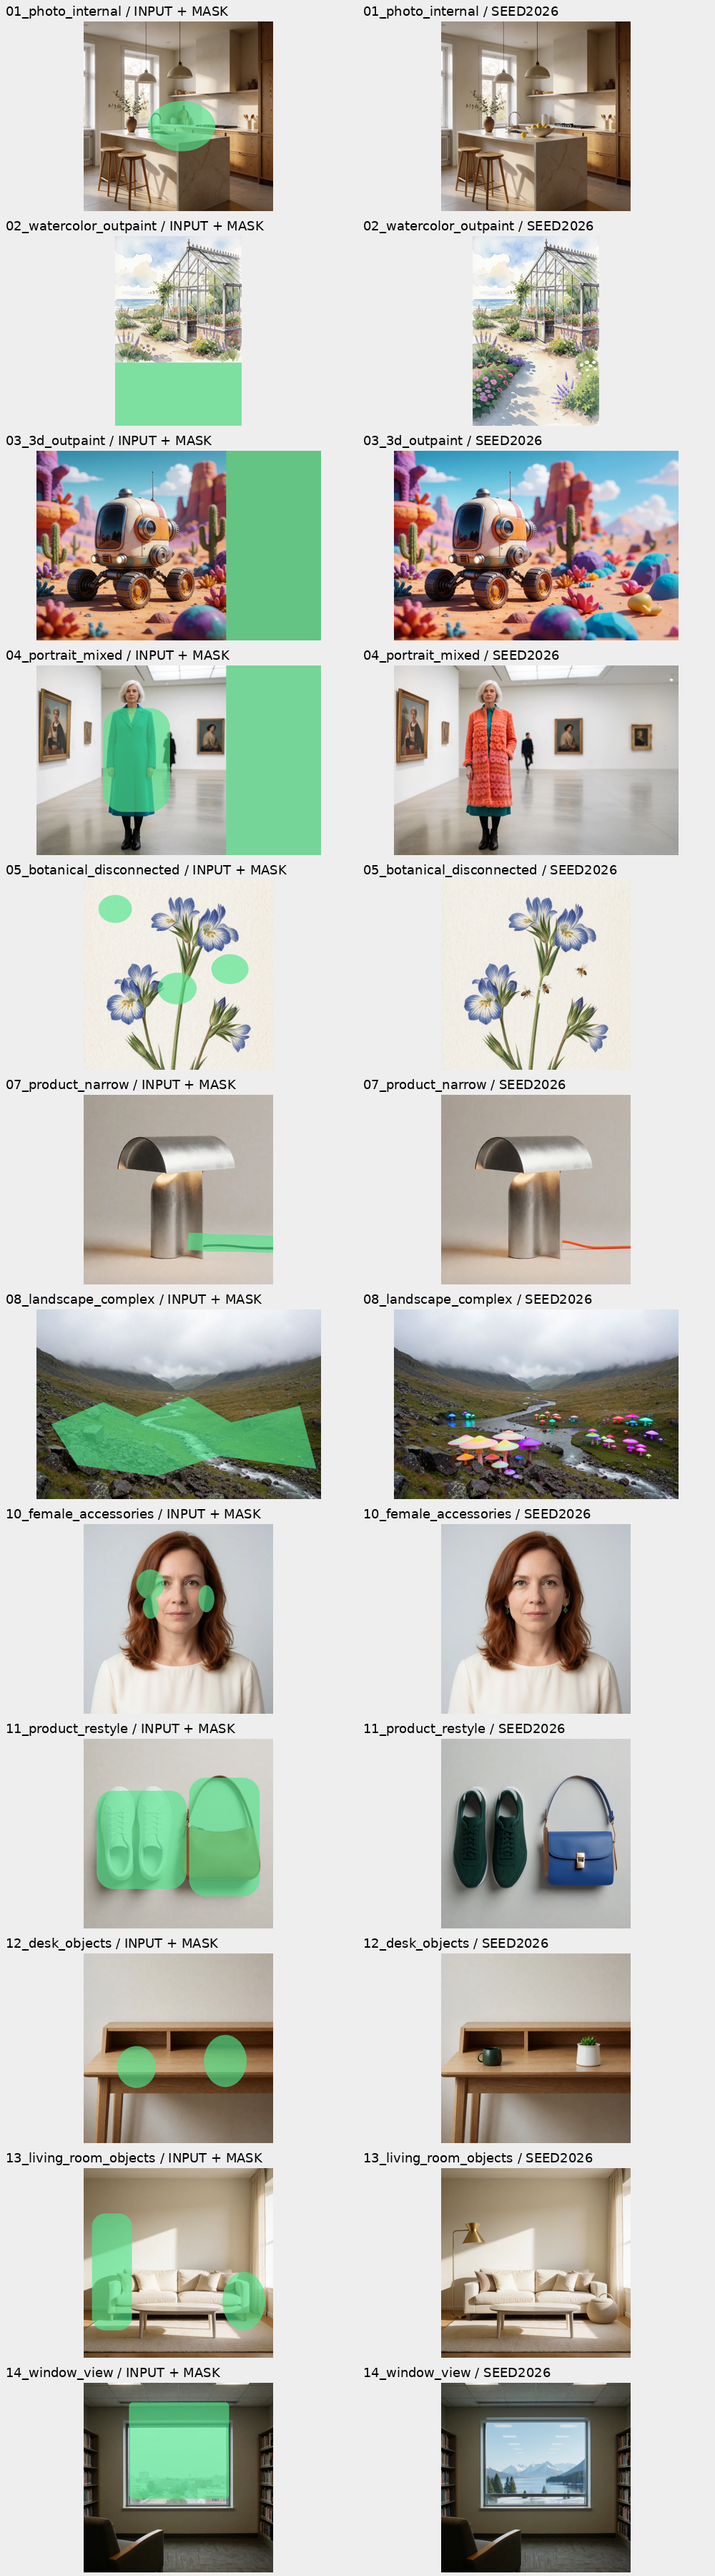
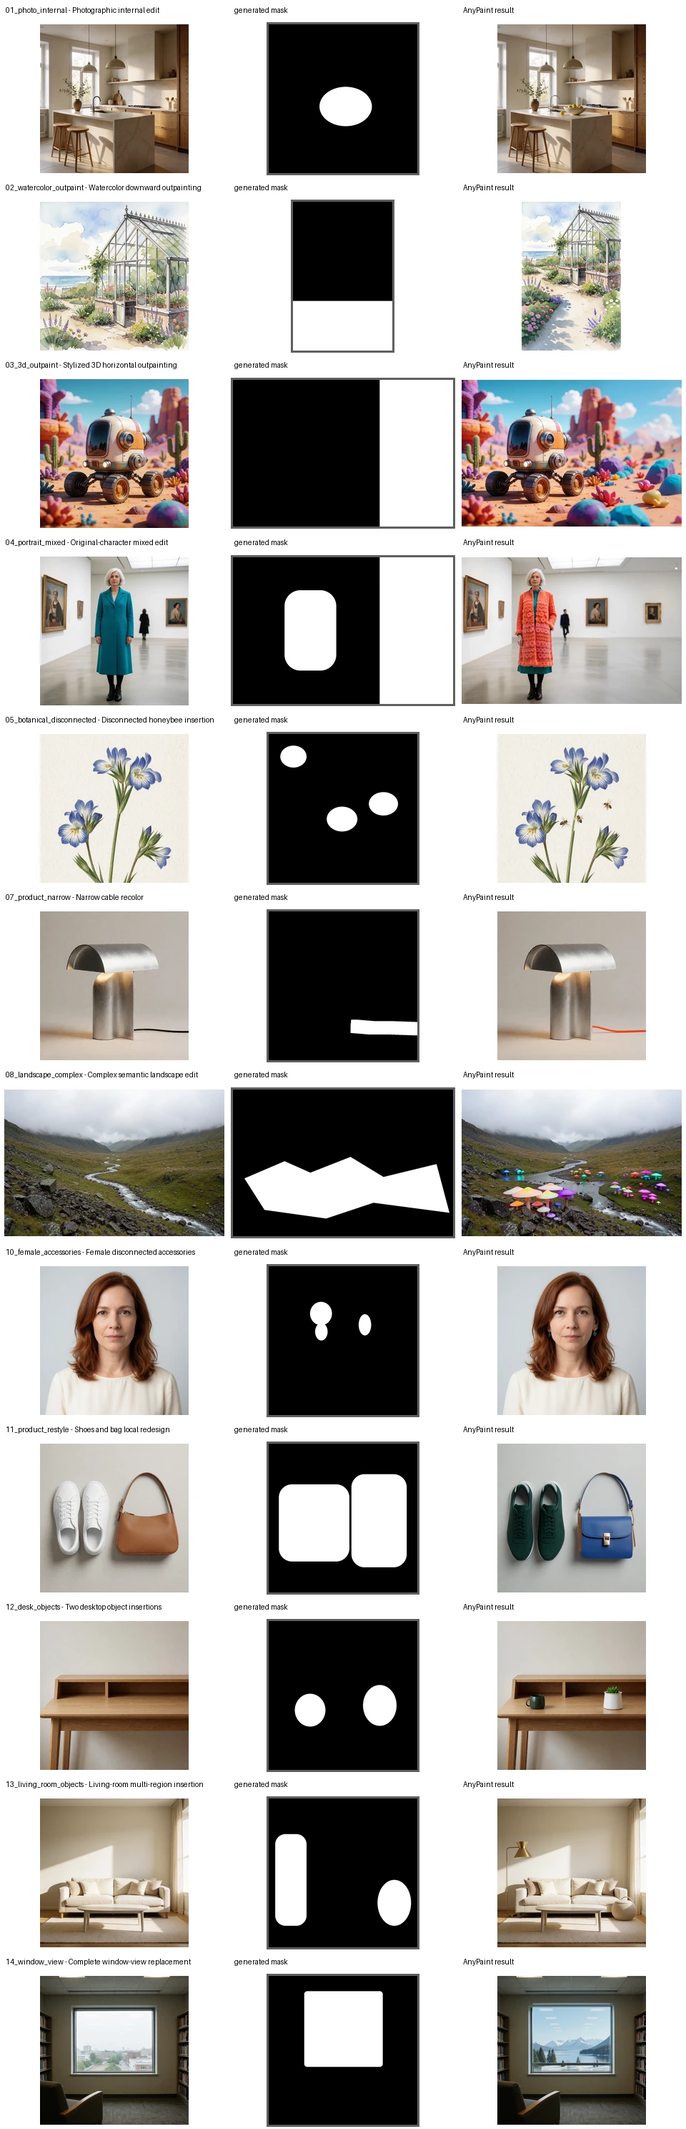
auto: align documentation and showcase with Krea 2 AnyPaint
Process:
- Reuse the companion page structure, example captions and three-column showcase.
- Update the prose and corresponding file checksums.

Logic:
- Retain MOSS-specific dependencies, interfaces and license terms.
- Keep inference code, weights and individual example assets unchanged.

Owner Requirements:
- Follow the existing Krea 2 AnyPaint presentation.
- Limit public prose to model capabilities and usage.

diff --git a/README.md b/README.md
@@ -1,100 +1,209 @@
 # ComfyUI MOSS AnyPaint
 
-Arbitrary-mask editing and outpainting with the selected4303-step
-[MOSS AnyPaint adapter](https://huggingface.co/yijunwang2/moss-anypaint).
+ComfyUI nodes for the
+[`yijunwang2/moss-anypaint`](https://huggingface.co/yijunwang2/moss-anypaint)
+functional adapter. AnyPaint adds arbitrary-mask **inpainting**, **outpainting**,
+and mixed **image editing** to MOSS-Image-Base.
 
-These nodes **share the portable HF runtime**, preserving the tested qfloat8/
-BF16 path and unmerged FP32 DMD2. They are not a native KSampler MODEL patch.
-Inputs/outputs use standard ComfyUI IMAGE/MASK, so ordinary image nodes work
-before and after the workflow. No Space or external API service is used.
+[Model and portable inference example](https://huggingface.co/yijunwang2/moss-anypaint)
+| [ComfyUI releases](https://github.com/alexw5702-afk/moss-anypaint/releases)
+
+![AnyPaint examples](showcase/contact_sheet.webp)
+
+<!-- SHOWCASE_EXAMPLES_START -->
+<details>
+<summary><strong>Open the complete source / mask / result set and prompts</strong></summary>
+
+### 01_photo_internal - Photographic internal edit
+
+| Source | Generated mask | AnyPaint result |
+|:---:|:---:|:---:|
+| ![](showcase/01_photo_internal_source.webp) | ![](showcase/01_photo_internal_mask.png) | ![](showcase/01_photo_internal_result.webp) |
+
+**Prompt:** a sunlit modern kitchen interior with a handmade ceramic bowl of fresh lemons on the center island, coherent morning light, complete architectural photograph
+
+### 02_watercolor_outpaint - Watercolor downward outpainting
+
+| Source | Generated mask | AnyPaint result |
+|:---:|:---:|:---:|
+| ![](showcase/02_watercolor_outpaint_source.webp) | ![](showcase/02_watercolor_outpaint_mask.png) | ![](showcase/02_watercolor_outpaint_result.webp) |
+
+**Prompt:** an original watercolor greenhouse and coastal garden, the path and flowering plants continuing naturally downward, airy washes, complete vertical composition
+
+### 03_3d_outpaint - Stylized 3D horizontal outpainting
+
+| Source | Generated mask | AnyPaint result |
+|:---:|:---:|:---:|
+| ![](showcase/03_3d_outpaint_source.webp) | ![](showcase/03_3d_outpaint_mask.png) | ![](showcase/03_3d_outpaint_result.webp) |
+
+**Prompt:** an original retro-futuristic exploration rover crossing a colorful alien desert, distant mineral formations extending to the right, stylized 3D cinematic render
+
+### 04_portrait_mixed - Original-character mixed edit
+
+| Source | Generated mask | AnyPaint result |
+|:---:|:---:|:---:|
+| ![](showcase/04_portrait_mixed_source.webp) | ![](showcase/04_portrait_mixed_mask.png) | ![](showcase/04_portrait_mixed_result.webp) |
+
+**Prompt:** an original adult woman with short silver hair wearing a richly textured coral coat in a spacious contemporary gallery, complete full-body fashion photograph
+
+### 05_botanical_disconnected - Disconnected honeybee insertion
+
+| Source | Generated mask | AnyPaint result |
+|:---:|:---:|:---:|
+| ![](showcase/05_botanical_disconnected_source.webp) | ![](showcase/05_botanical_disconnected_mask.png) | ![](showcase/05_botanical_disconnected_result.webp) |
+
+**Prompt:** an original botanical field illustration of blue and white meadow flowers with three small honeybees hovering naturally between the blossoms, delicate wings, fine paper texture, naturalistic painted details
+
+### 07_product_narrow - Narrow cable recolor
+
+| Source | Generated mask | AnyPaint result |
+|:---:|:---:|:---:|
+| ![](showcase/07_product_narrow_source.webp) | ![](showcase/07_product_narrow_mask.png) | ![](showcase/07_product_narrow_result.webp) |
+
+**Prompt:** an original sculptural brushed aluminum desk lamp with a vivid orange braided power cable extending from the lamp across the tabletop, premium neutral product photography
+
+### 08_landscape_complex - Complex semantic landscape edit
+
+| Source | Generated mask | AnyPaint result |
+|:---:|:---:|:---:|
+| ![](showcase/08_landscape_complex_source.webp) | ![](showcase/08_landscape_complex_mask.png) | ![](showcase/08_landscape_complex_result.webp) |
+
+**Prompt:** an original alpine valley after rain with clusters of luminous rainbow-colored fantasy mushrooms growing along the winding riverbanks and foreground rocks, subtle magical glow reflected in wet stone, coherent wide cinematic landscape photograph
+
+
+### 10_female_accessories - Female disconnected accessories
+
+| Source | Generated mask | AnyPaint result |
+|:---:|:---:|:---:|
+| ![](showcase/10_female_accessories_source.webp) | ![](showcase/10_female_accessories_mask.png) | ![](showcase/10_female_accessories_result.webp) |
+
+**Prompt:** a polished portrait of an adult woman with shoulder-length auburn hair, a dark green enamel hair clip above her left ear and matching small geometric earrings, simple cream blouse, coherent natural daylight and pale gray studio background
+
+### 11_product_restyle - Shoes and bag local redesign
+
+| Source | Generated mask | AnyPaint result |
+|:---:|:---:|:---:|
+| ![](showcase/11_product_restyle_source.webp) | ![](showcase/11_product_restyle_mask.png) | ![](showcase/11_product_restyle_result.webp) |
+
+**Prompt:** an overhead catalog photograph with a pair of deep forest-green suede sneakers on the left and a cobalt-blue structured leather shoulder bag on the right, refined minimal hardware, balanced composition, coherent soft studio shadows
+
+### 12_desk_objects - Two desktop object insertions
+
+| Source | Generated mask | AnyPaint result |
+|:---:|:---:|:---:|
+| ![](showcase/12_desk_objects_source.webp) | ![](showcase/12_desk_objects_mask.png) | ![](showcase/12_desk_objects_result.webp) |
+
+**Prompt:** a clean oak writing desk in a softly lit home office with a handmade dark green ceramic mug on the left side and a small potted succulent in a matte white planter on the right, coherent restrained contemporary interior photograph
+
+### 13_living_room_objects - Living-room multi-region insertion
+
+| Source | Generated mask | AnyPaint result |
+|:---:|:---:|:---:|
+| ![](showcase/13_living_room_objects_source.webp) | ![](showcase/13_living_room_objects_mask.png) | ![](showcase/13_living_room_objects_result.webp) |
+
+**Prompt:** a bright neutral living room with a tall brushed-brass floor lamp beside the left end of the cream sofa and a round woven storage basket beside the right end, simple coffee table, coherent warm daylight and understated architectural photography
+
+### 14_window_view - Complete window-view replacement
+
+| Source | Generated mask | AnyPaint result |
+|:---:|:---:|:---:|
+| ![](showcase/14_window_view_source.webp) | ![](showcase/14_window_view_mask.png) | ![](showcase/14_window_view_result.webp) |
+
+**Prompt:** a quiet contemporary reading room whose large central picture window overlooks a snowy mountain lake beneath a clear pale-blue winter sky, armchair in the foreground, coherent daylight, reflections and realistic interior photography
+
+
+</details>
+<!-- SHOWCASE_EXAMPLES_END -->
 
 ## Install
 
-Clone/copy this repository to `ComfyUI/custom_nodes/moss-anypaint`, then install
-`requirements.txt` with the Python interpreter used by your ComfyUI instance.
-Use Python 3.11+, a recent ComfyUI build and a CUDA GPU with BF16 support.
-The validated GPU is RTX 5090 32GB. Dependencies include Transformers5.5.3,
-PEFT0.18.1, Quanto0.2.4 and the pinned DiffSynth revision.
+```bash
+cd ComfyUI/custom_nodes
+git clone https://github.com/alexw5702-afk/moss-anypaint
+```
 
-Download into `ComfyUI/models/loras/`:
+Install `requirements.txt` with the Python interpreter used by your ComfyUI
+instance, then restart ComfyUI.
 
-- [moss_anypaint_rank32.safetensors](https://huggingface.co/yijunwang2/moss-anypaint/resolve/main/moss_anypaint_rank32.safetensors)
-- [lora_dmd2.safetensors](https://huggingface.co/lodestones/MOSS-Image-Base-8-steps-dmd/resolve/da05cb3b52899179e2bb5f7efe1058fefcbae21b/lora_dmd2.safetensors)
+## Requirements
 
-The Loader downloads the pinned original **MOSS-Image-Base HF directory** on
-first use. Or set `base_model_dir` to a local folder containing `transformer/`,
-`text_encoder/`, `tokenizer/` and `vae/`. Native Comfy-Org single-file model
-checkpoints and SFT weights are not inputs to this loader.
+- Python 3.11+, a current ComfyUI build, and a CUDA GPU with BF16 support.
+- [MOSS AnyPaint LoRA](https://huggingface.co/yijunwang2/moss-anypaint/blob/main/moss_anypaint_rank32.safetensors)
+  in `ComfyUI/models/loras`.
+- [Base 8-step DMD2 `lora_dmd2.safetensors`](https://huggingface.co/lodestones/MOSS-Image-Base-8-steps-dmd/resolve/da05cb3b52899179e2bb5f7efe1058fefcbae21b/lora_dmd2.safetensors)
+  in `ComfyUI/models/loras`.
+
+The Loader downloads the MOSS-Image-Base HF components on first use. Alternatively,
+set `base_model_dir` to a local folder containing `transformer/`, `text_encoder/`,
+`tokenizer/` and `vae/`. Native Comfy-Org single-file checkpoints and SFT weights
+are not inputs to this loader.
+
+## Nodes
+
+### MOSS AnyPaint Prepare
+
+Takes a source image, optional arbitrary mask, and four padding values. White
+mask pixels and all padded canvas pixels are generated; black pixels are
+preserved. The node outputs:
+
+- the prepared canvas and mask for the shared runtime;
+- the input with its mask overlay;
+- the generated mask.
+
+Use the `MASK` output from ComfyUI's `Load Image` Mask Editor directly. For
+inpainting, keep all padding at zero. For outpainting, add space on any side.
+Both can be combined in one request.
+
+### MOSS AnyPaint Loader
+
+Loads the MOSS AnyPaint adapter, Base 8-step DMD2 adapter and MOSS-Image-Base
+components into the shared HF runtime. Select both adapters from the LoRA folder;
+leave `base_model_dir` blank to download the Base components automatically.
+
+### MOSS AnyPaint Generate
+
+Takes the loaded pipeline, prepared input, prompt, seed and inference steps.
+Returns a standard ComfyUI `IMAGE` and generation metadata. Set
+`keep_model_loaded=true` to reuse the loaded runtime for subsequent requests;
+set it false to release model allocations after generation.
 
 ## Workflow
 
-Import `moss_anypaint_workflow.json`. Copy
-`examples/moss_anypaint_source.png` and `examples/moss_anypaint_mask.png`
-into ComfyUI's input folder and select them in the two Load Image nodes.
-The second image is converted to a generated mask through ImageToMask/red.
-Alternatively use the source Load Image Mask Editor output directly.
-
-The supplied PNG is losslessly converted from the reviewed source's Pillow RGB.
-Recent ComfyUI Load Image uses a different WebP decode path, which can slightly
-change RGB values before sampling. Use this PNG for strict fixed-seed matching.
+Drag [`moss_anypaint_workflow.json`](moss_anypaint_workflow.json) into
+ComfyUI. The important wiring is:
 
 ```text
-Load Image + generated MASK -> MOSS AnyPaint Prepare
+Load Image (image + mask) -> MOSS AnyPaint Prepare
 MOSS AnyPaint Loader + prepared input -> MOSS AnyPaint Generate -> Save Image
-Prepare.input_with_mask -> Preview Image
+MOSS AnyPaint Prepare.input_with_mask -> Preview Image
 ```
 
-White mask pixels and padded pixels are generated. For inpainting use zero
-padding; for outpainting add left/top/right/bottom space, in pixels. The image
-is not resized by padding; right/bottom alignment pixels are added if needed.
-Only exterior seams gain32px latent redraw; internal brushes remain exact.
+Copy `examples/moss_anypaint_source.png` and `examples/moss_anypaint_mask.png`
+into ComfyUI's input folder for the supplied example. Connect the mask through
+`ImageToMask/red`, or use the source image's Mask Editor output directly.
+`moss_anypaint_api.json` provides the same graph in ComfyUI API form.
 
-The default example is seed 2026,8 steps. The sampler returns raw decoded RGB,
-with no final source composite. The loader checks the selected task and DMD2
-hashes, and the two adapters stay separate.
+Recommended settings: 8 steps, Euler, CFG 1, shift 5, and both adapter strengths
+at 1. The runtime uses qfloat8 frozen DiT/text weights, BF16 compute/task adapter,
+FP32 VAE and an unmerged FP32 DMD2 adapter. These nodes use the shared HF runtime
+rather than a native KSampler MODEL patch.
 
-Seeds accept the full uint64 range (0 through2**64−1), including ComfyUI's
-randomize mode. Source-sized masks follow the padding offset; canvas-sized masks
-already use canvas coordinates. For the portable HF helper the same rule applies
-to bbox placement/scaling; when source/canvas sizes are equal, canvas coordinates
-take priority.
+Source-sized masks follow the padding offset; canvas-sized masks use canvas
+coordinates. Only exterior source seams have a 32-pixel inward redraw band;
+internal masks are exact. The output is the raw model decode, with no final
+source composite.
 
-`keep_model_loaded=true` keeps the shared runtime for subsequent seeds. Set it
-false to release its GPU/CPU model allocations after the current image when
-switching to another model or needing VRAM. Prompt text is cached independently
-of the sample seed. The JSON metadata output includes the actual seed/step/hash.
+Use v0.1.1 or later for full uint64 seed support and corrected source-sized mask
+placement. Update the node code and shared runtime together; no new adapter
+weight download is required.
 
-`moss_anypaint_api.json` is the same graph in ComfyUI API form.
+## Credits
 
-## Showcase
+The nodes use the shared
+[MOSS AnyPaint runtime](https://huggingface.co/yijunwang2/moss-anypaint), with model
+helpers derived from [DiffSynth-Studio](https://github.com/modelscope/DiffSynth-Studio).
+Base and DMD2 weights are downloaded separately. See `NOTICE` and
+`THIRD_PARTY_NOTICES.md` for the complete attribution chain.
 
-All 12 cases use seed 2026 and the selected4303-step weights. Inputs show the
-actual mask overlay, alongside each result. Original sources and binary masks
-remain available for reproduction.
-
-![MOSS AnyPaint inputs with mask and results](showcase/contact_sheet.webp)
-
-## Credits and license
-
-Apache-2.0. See [LICENSE](LICENSE), [PIPELINE_LICENSE](PIPELINE_LICENSE),
-[NOTICE](NOTICE) and [component licenses/provenance](THIRD_PARTY_NOTICES.md). Mask/padding/workflow interactions follow the
-previous Krea AnyPaint nodes; MOSS model code comes from the shared released
-runtime, not the Krea DiT patch. Base and DMD2 assets are downloaded separately.
-
-## Validation
-
-Validated with the pinned runtime on RTX 5090: internal editing, outpainting and
-mixed editing match the selected fixed-seed outputs pixel for pixel. ComfyUI
-0.45.0 API workflow validation uses the canonical PNG example input to preserve
-the same decoded RGB values. See the runtime lock for exact model revisions.
-
-The distribution includes SHA256SUMS for all shipped files. Release assets also
-include a ComfyUI ZIP, its checksum, and both UI/API workflow JSON files.
-
-## v0.1.1 update
-
-Fixes the large-seed failure in v0.1.0 and the portable source-mask placement
-behavior. The builders now reject unlisted source files and symlinks before
-copying. The selected4303 adapter, seed2026 examples, sampler and precision are
-unchanged; update the node code/runtime together, with no new weights required.
-The v0.1.0 tag and assets remain available as historical artifacts.
+Node code and adapter weights are Apache-2.0 licensed. See `LICENSE` and
+`PIPELINE_LICENSE` for the license terms.

diff --git a/showcase/README.md b/showcase/README.md
@@ -1,7 +1,103 @@
-# MOSS AnyPaint showcase
+# AnyPaint Showcase
 
-Selected4303-step adapter; seed2026 for all12 examples.
-The first image is the actual input with its mask, the second is the raw model result.
-Original sources, binary masks, prompts, placement and SHA256 are included for reproduction.
-Sources are the synthetic Krea-generated tests previously released with Krea AnyPaint.
-No training data or other seeds are included.
+All sources are synthetic and use original, non-IP prompts. The sources are also
+used in the Krea 2 AnyPaint showcase; the results here use MOSS AnyPaint.
+
+## 01_photo_internal - Photographic internal edit
+
+| Source | Generated mask | Result |
+|:---:|:---:|:---:|
+| ![](01_photo_internal_source.webp) | ![](01_photo_internal_mask.png) | ![](01_photo_internal_result.webp) |
+
+**Prompt:** a sunlit modern kitchen interior with a handmade ceramic bowl of fresh lemons on the center island, coherent morning light, complete architectural photograph
+
+## 02_watercolor_outpaint - Watercolor downward outpainting
+
+| Source | Generated mask | Result |
+|:---:|:---:|:---:|
+| ![](02_watercolor_outpaint_source.webp) | ![](02_watercolor_outpaint_mask.png) | ![](02_watercolor_outpaint_result.webp) |
+
+**Prompt:** an original watercolor greenhouse and coastal garden, the path and flowering plants continuing naturally downward, airy washes, complete vertical composition
+
+## 03_3d_outpaint - Stylized 3D horizontal outpainting
+
+| Source | Generated mask | Result |
+|:---:|:---:|:---:|
+| ![](03_3d_outpaint_source.webp) | ![](03_3d_outpaint_mask.png) | ![](03_3d_outpaint_result.webp) |
+
+**Prompt:** an original retro-futuristic exploration rover crossing a colorful alien desert, distant mineral formations extending to the right, stylized 3D cinematic render
+
+## 04_portrait_mixed - Original-character mixed edit
+
+| Source | Generated mask | Result |
+|:---:|:---:|:---:|
+| ![](04_portrait_mixed_source.webp) | ![](04_portrait_mixed_mask.png) | ![](04_portrait_mixed_result.webp) |
+
+**Prompt:** an original adult woman with short silver hair wearing a richly textured coral coat in a spacious contemporary gallery, complete full-body fashion photograph
+
+## 05_botanical_disconnected - Disconnected honeybee insertion
+
+| Source | Generated mask | Result |
+|:---:|:---:|:---:|
+| ![](05_botanical_disconnected_source.webp) | ![](05_botanical_disconnected_mask.png) | ![](05_botanical_disconnected_result.webp) |
+
+**Prompt:** an original botanical field illustration of blue and white meadow flowers with three small honeybees hovering naturally between the blossoms, delicate wings, fine paper texture, naturalistic painted details
+
+## 07_product_narrow - Narrow cable recolor
+
+| Source | Generated mask | Result |
+|:---:|:---:|:---:|
+| ![](07_product_narrow_source.webp) | ![](07_product_narrow_mask.png) | ![](07_product_narrow_result.webp) |
+
+**Prompt:** an original sculptural brushed aluminum desk lamp with a vivid orange braided power cable extending from the lamp across the tabletop, premium neutral product photography
+
+## 08_landscape_complex - Complex semantic landscape edit
+
+| Source | Generated mask | Result |
+|:---:|:---:|:---:|
+| ![](08_landscape_complex_source.webp) | ![](08_landscape_complex_mask.png) | ![](08_landscape_complex_result.webp) |
+
+**Prompt:** an original alpine valley after rain with clusters of luminous rainbow-colored fantasy mushrooms growing along the winding riverbanks and foreground rocks, subtle magical glow reflected in wet stone, coherent wide cinematic landscape photograph
+
+
+## 10_female_accessories - Female disconnected accessories
+
+| Source | Generated mask | Result |
+|:---:|:---:|:---:|
+| ![](10_female_accessories_source.webp) | ![](10_female_accessories_mask.png) | ![](10_female_accessories_result.webp) |
+
+**Prompt:** a polished portrait of an adult woman with shoulder-length auburn hair, a dark green enamel hair clip above her left ear and matching small geometric earrings, simple cream blouse, coherent natural daylight and pale gray studio background
+
+## 11_product_restyle - Shoes and bag local redesign
+
+| Source | Generated mask | Result |
+|:---:|:---:|:---:|
+| ![](11_product_restyle_source.webp) | ![](11_product_restyle_mask.png) | ![](11_product_restyle_result.webp) |
+
+**Prompt:** an overhead catalog photograph with a pair of deep forest-green suede sneakers on the left and a cobalt-blue structured leather shoulder bag on the right, refined minimal hardware, balanced composition, coherent soft studio shadows
+
+## 12_desk_objects - Two desktop object insertions
+
+| Source | Generated mask | Result |
+|:---:|:---:|:---:|
+| ![](12_desk_objects_source.webp) | ![](12_desk_objects_mask.png) | ![](12_desk_objects_result.webp) |
+
+**Prompt:** a clean oak writing desk in a softly lit home office with a handmade dark green ceramic mug on the left side and a small potted succulent in a matte white planter on the right, coherent restrained contemporary interior photograph
+
+## 13_living_room_objects - Living-room multi-region insertion
+
+| Source | Generated mask | Result |
+|:---:|:---:|:---:|
+| ![](13_living_room_objects_source.webp) | ![](13_living_room_objects_mask.png) | ![](13_living_room_objects_result.webp) |
+
+**Prompt:** a bright neutral living room with a tall brushed-brass floor lamp beside the left end of the cream sofa and a round woven storage basket beside the right end, simple coffee table, coherent warm daylight and understated architectural photography
+
+## 14_window_view - Complete window-view replacement
+
+| Source | Generated mask | Result |
+|:---:|:---:|:---:|
+| ![](14_window_view_source.webp) | ![](14_window_view_mask.png) | ![](14_window_view_result.webp) |
+
+**Prompt:** a quiet contemporary reading room whose large central picture window overlooks a snowy mountain lake beneath a clear pale-blue winter sky, armchair in the foreground, coherent daylight, reflections and realistic interior photography
+
+See `manifest.json` for prompts, seeds and placement.
